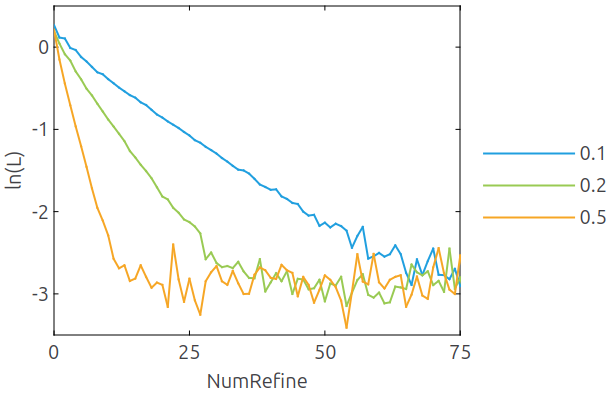
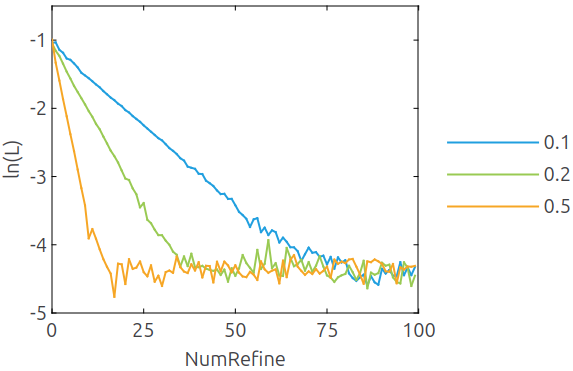
Vegas: Nomalize grid loss

diff --git a/include/Physica/Core/Math/Algebra/LinearAlgebra/Matrix/MatrixDecomp/LUDecomp.h b/include/Physica/Core/Math/Algebra/LinearAlgebra/Matrix/MatrixDecomp/LUDecomp.h
@@ -31,7 +31,7 @@ namespace Physica::Core {
         [[no_unique_address]] BiasArray biasOrder;
     public:
         LUDecomp() = default;
-        LUDecomp(size_t order);
+        LUDecomp(size_t size);
         template<Matrix M>
         LUDecomp(const M& source);
         LUDecomp(const This&) = default;
@@ -42,6 +42,8 @@ namespace Physica::Core {
         /* Operations */
         template<Matrix M>
         void compute(const M& source);
+
+        void resize(size_t size);
         void swap(This& __restrict obj) noexcept;
         /* Getters */
         [[nodiscard]] size_t getOrder() const noexcept { return working.getRow(); }
@@ -54,9 +56,8 @@ namespace Physica::Core {
     };
 
     template<Scalar T, bool Pivote>
-    LUDecomp<T, Pivote>::LUDecomp(size_t order) : working(order, order) {
-        if constexpr (Pivote)
-            biasOrder.resize(order);
+    LUDecomp<T, Pivote>::LUDecomp(size_t size) {
+        resize(size);
     }
 
     template<Scalar T, bool Pivote>
@@ -69,7 +70,10 @@ namespace Physica::Core {
     template<Matrix M>
     void LUDecomp<T, Pivote>::compute(const M& source) {
         assert(source.getRow() == source.getCol());
-        const size_t order = getOrder();
+        const size_t order = source.getRow();
+        if (order != getOrder())
+            resize(order);
+
         if constexpr (Pivote) {
             for(size_t i = 0; i < order; ++i)
                 biasOrder[i] = i;
@@ -83,6 +87,13 @@ namespace Physica::Core {
             }
             decomp_col(i);
         }
+    }
+
+    template<Scalar T, bool Pivote>
+    void LUDecomp<T, Pivote>::resize(size_t size) {
+        working.resize(size, size);
+        if constexpr (Pivote)
+            biasOrder.resize(size);
     }
 
     template<Scalar T, bool Pivote>

diff --git a/examples/Core/Math/Calculus/Vegas.cpp b/examples/Core/Math/Calculus/Vegas.cpp
@@ -37,7 +37,7 @@ void plotCompressRate() {
     const VectorND<T> from(8, T(-r));
     const VectorND<T> to(8, T(r));
 
-    Plot* plot = new Plot(0, 75, -3.5, 0.5, 25, 1);
+    Plot* plot = new Plot(0, 100, -5, -0.5, 25, 1);
     plot->getLegend().setAlignment(Qt::AlignRight);
     plot->getLegend().show();
     plot->getAxisX()->setLabelFormat("%d");
@@ -62,7 +62,7 @@ void plotNumPoint() {
     const VectorND<T> from(8, T(-r));
     const VectorND<T> to(8, T(r));
 
-    Plot* plot = new Plot(0, 1000, -6, -1, 250, 2);
+    Plot* plot = new Plot(0, 1000, -9, -1, 250, 2);
     plot->getLegend().setAlignment(Qt::AlignRight);
     plot->getLegend().show();
     plot->getAxisX()->setLabelFormat("%d");
@@ -87,7 +87,7 @@ void plotNumSample() {
     const VectorND<T> from(8, T(-r));
     const VectorND<T> to(8, T(r));
 
-    Plot* plot = new Plot(0, 1000, -5.5, -2.5, 250, 1);
+    Plot* plot = new Plot(0, 1000, -9, -5, 250, 1);
     plot->getLegend().setAlignment(Qt::AlignRight);
     plot->getLegend().show();
     plot->getAxisX()->setLabelFormat("%d");

diff --git a/include/Physica/Core/Math/Calculus/Integrate/Vegas.h b/include/Physica/Core/Math/Calculus/Integrate/Vegas.h
@@ -333,13 +333,13 @@ namespace Physica::Core {
 
     template<Scalar T>
     auto Vegas<T>::calcGridLossImpl() const -> RealValue {
-        RealValue maxVar = 0;
+        RealValue sumvar = 0;
         for (size_t i = 0; i < lossMat.getCol(); ++i) {
             const auto col = lossMat.col(i);
             const RealValue prior = mean(col);
-            maxVar = std::max(maxVar, variance(col, prior) / prior.squaredNorm());
+            sumvar += sqrt(variance(col, prior) / prior.squaredNorm() / RealValue(getNumPoint()));
         }
-        return sqrt(maxVar);
+        return sumvar / RealValue(getDim());
     }
 
     template<Scalar T>

diff --git a/examples/Core/Math/Calculus/Vegas.md b/examples/Core/Math/Calculus/Vegas.md
@@ -17,11 +17,11 @@ Vegas算法自适应地调整积分网格以降低采样误差, 考虑8维积分
 
 $$I = \int_{-a}^a \text{d}\mathbf{x} \exp(-\frac{1}{2} \mathbf{x}^T \mathbf{x})$$
 
-定义网格损失函数为所有维度中$d_i$标准差的最大值
+定义网格损失函数为所有维度损失标准差的平均值
 
-$$L = \text{max}_i \; \sigma(d_i) = \text{max}_i \sqrt{\frac{\braket{d_i^2} - \braket{d_i}^2}{\braket{d_i}^2}}$$
+$$L = \frac{1}{N} \sum_i^N \; \sigma(d_i) = \frac{1}{N} \sum_i^N \sqrt{\frac{\braket{d_i^2} - \braket{d_i}^2}{N_P \braket{d_i}^2}}$$
 
-其中$d_i$由[1]中(17)式定义.
+其中$N$为维度, $N_P$为每个维度的格点数, $d_i$由[1]中(17)式定义.
 
 ![](./Vegas1.png)
 
